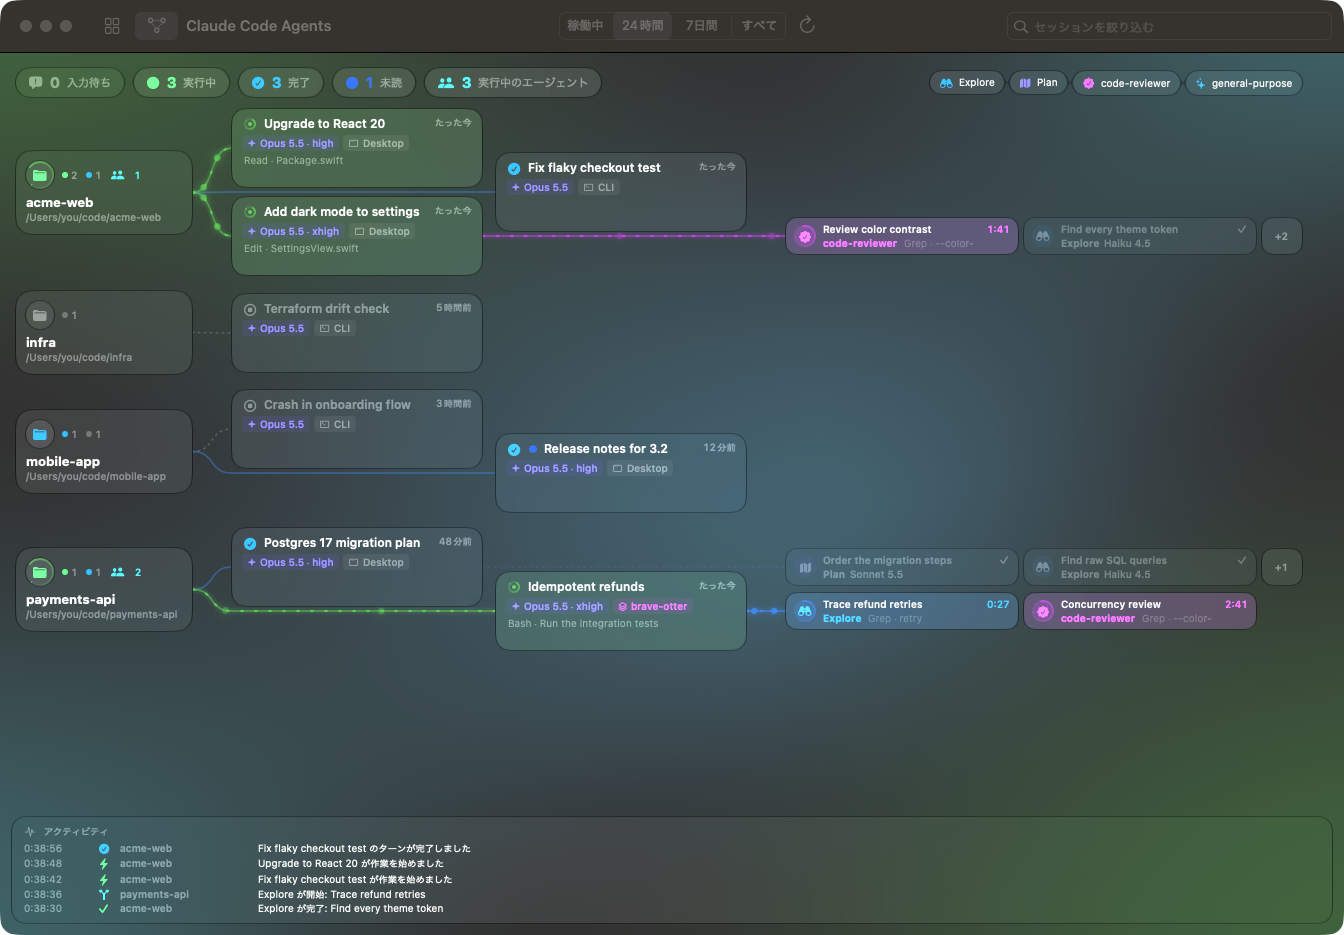
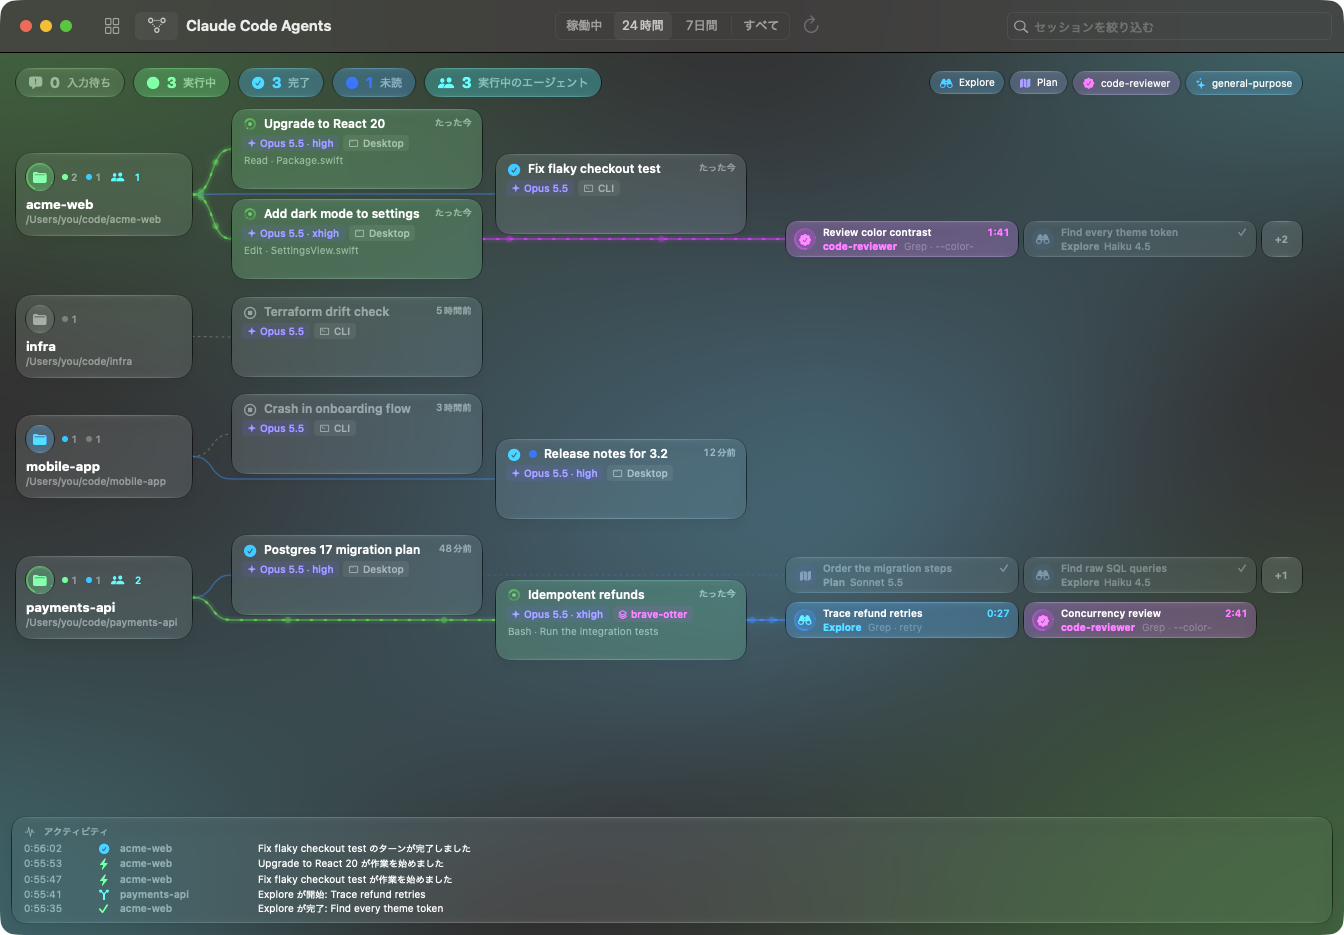
fix: プロジェクトの件数を数字の途中で切らず、入力待ちのカードを枠に収める
- プロジェクトノード 1 行目（アイコン + 状態ごとの件数 + 実行中エージェント数）は、4 状態がそろい
  実行中エージェントがいると 176 pt に収まらず数字が「…」になっていた。収まらないときだけ
  エージェント数を状態の件数の下に回す（ViewThatFits）
- セッションカードはタイトル 2 行 + タグ + アクティビティ（または入力待ち）で 79 pt になり、78 pt の
  枠から 1 pt はみ出していた。80 pt にする。エージェント 1 行（36 + 6）はセッションの半段（45）に
  収まったまま
- README のグラフのスクリーンショットを撮り直す

diff --git a/Sources/AgentsVisualizer/GraphView.swift b/Sources/AgentsVisualizer/GraphView.swift
@@ -253,19 +253,14 @@ private struct ProjectNode: View {
                 }
                 .frame(width: 28, height: 28)
                 .glassSurface(Circle(), tint: top == .ended ? nil : top.color.opacity(0.22))
-                ForEach([SessionStatus.needsInput, .running, .idle, .ended], id: \.self) { status in
-                    let count = project.sessions.count { $0.status == status }
-                    if count > 0 {
-                        HStack(spacing: 3) {
-                            Circle().fill(status == .ended ? Color.secondary.opacity(0.5) : status.color).frame(width: 6, height: 6)
-                            Text(count, format: .number).font(.caption2.monospacedDigit())
-                        }
-                        .help(Text(status.label))
+                // Every status plus running agents, with two-digit counts, is wider than the node: the agent count
+                // then moves under the status counts instead of truncating a number.
+                ViewThatFits(in: .horizontal) {
+                    HStack(spacing: 8) { statusCounts; agentCount }
+                    VStack(alignment: .leading, spacing: 2) {
+                        HStack(spacing: 8) { statusCounts }
+                        agentCount
                     }
-                }
-                let agents = project.sessions.reduce(0) { $0 + $1.runningAgentCount }
-                if agents > 0 {
-                    Label("\(agents)", systemImage: "person.2.fill").font(.caption2).foregroundStyle(.teal)
                 }
             }
             .foregroundStyle(.secondary)
@@ -284,6 +279,26 @@ private struct ProjectNode: View {
         .glassSurface(RoundedRectangle(cornerRadius: 16, style: .continuous),
                       tint: top == .needsInput ? Color.orange.opacity(0.14) : nil)
         .help(Text(verbatim: project.path))
+    }
+
+    @ViewBuilder private var statusCounts: some View {
+        ForEach([SessionStatus.needsInput, .running, .idle, .ended], id: \.self) { status in
+            let count = project.sessions.count { $0.status == status }
+            if count > 0 {
+                HStack(spacing: 3) {
+                    Circle().fill(status == .ended ? Color.secondary.opacity(0.5) : status.color).frame(width: 6, height: 6)
+                    Text(count, format: .number).font(.caption2.monospacedDigit())
+                }
+                .help(Text(status.label))
+            }
+        }
+    }
+
+    @ViewBuilder private var agentCount: some View {
+        let agents = project.sessions.reduce(0) { $0 + $1.runningAgentCount }
+        if agents > 0 {
+            Label("\(agents)", systemImage: "person.2.fill").font(.caption2).foregroundStyle(.teal)
+        }
     }
 }
 

diff --git a/Sources/AgentsVisualizerCore/GraphLayout.swift b/Sources/AgentsVisualizerCore/GraphLayout.swift
@@ -43,7 +43,7 @@ public struct GraphRowLayout: Sendable {
     /// (`(session.height + rowGap) / 2`), or every session's agent line pushes the next one down and a project with
     /// many agents grows tall again.
     public static let standard = GraphRowLayout(
-        projectWidth: 176, session: CGSize(width: 250, height: 78), agent: CGSize(width: 232, height: 36),
+        projectWidth: 176, session: CGSize(width: 250, height: 80), agent: CGSize(width: 232, height: 36),
         columnGap: 40, zigzagGap: 14, rowGap: 10, agentGap: 6, toggleWidth: 40)
 
     public struct Frames: Equatable, Sendable {
